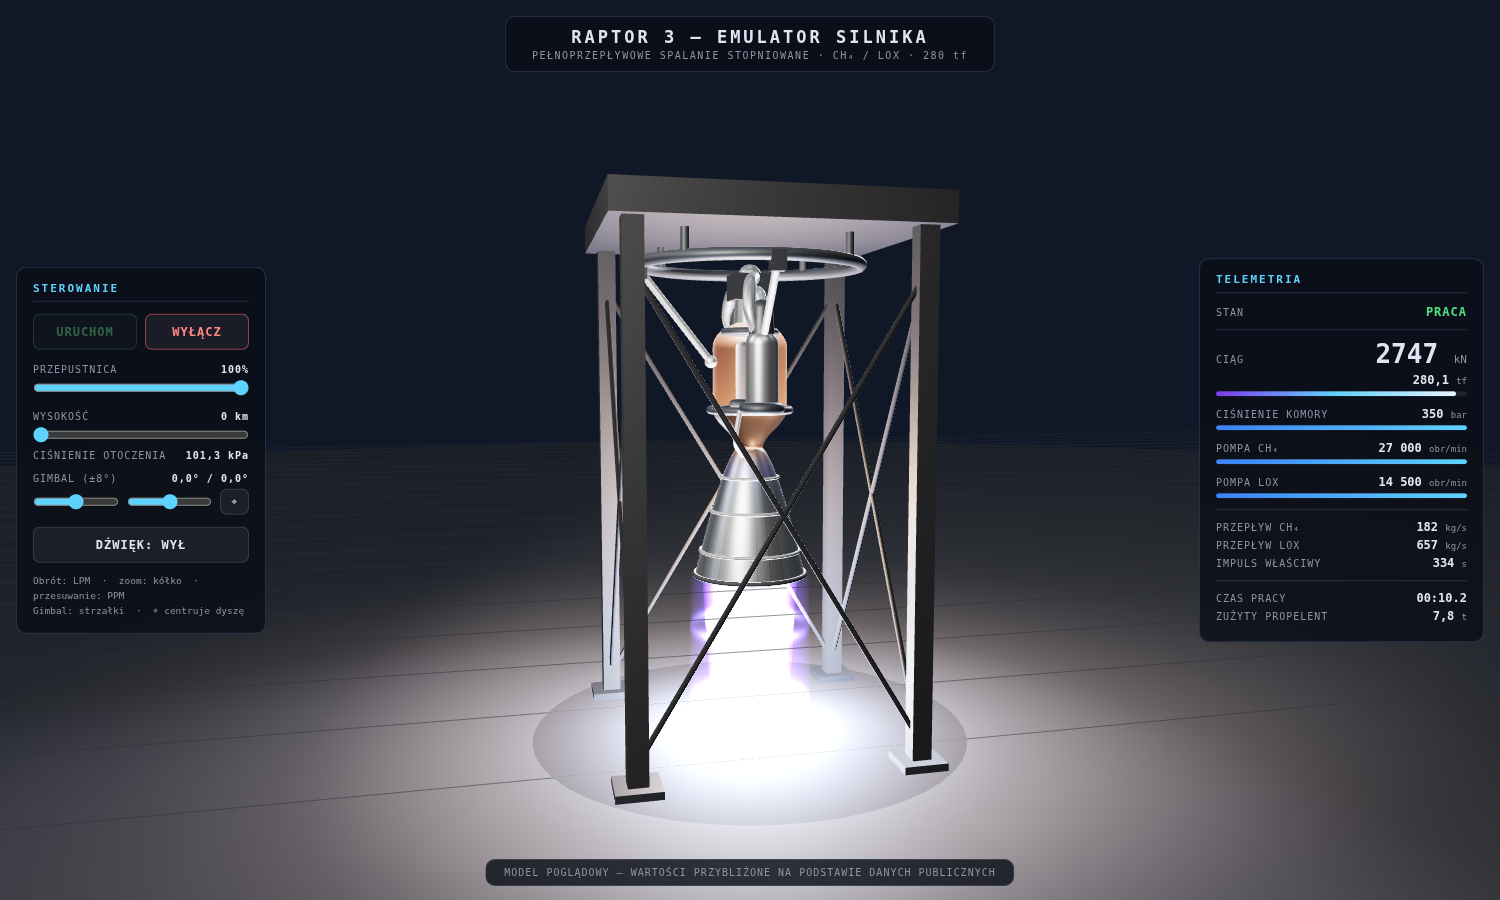
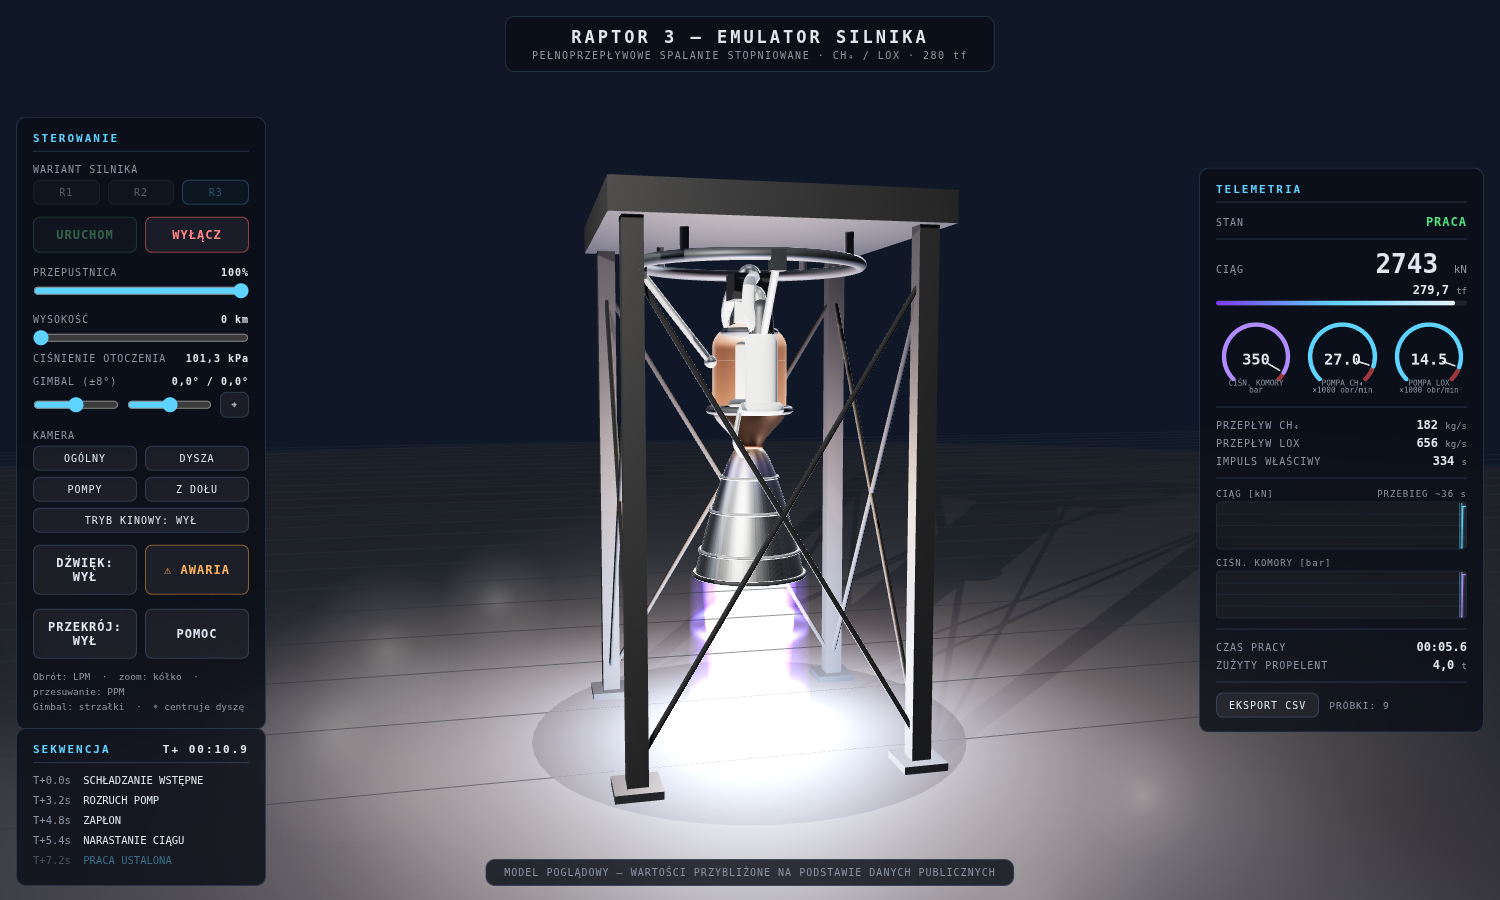
Iteracja 15: adaptacyjna rozdzielczosc, znaczniki zdarzen na wykresach, finalna dokumentacja
Adaptacyjny pixel ratio przy niskim fps, pionowe znaczniki sekwencji na
wykresach, przepisane README z nowymi zrzutami i podsumowanie petli
w DEVLOG.

Claude-Session: https://claude.ai/code/session_01Rf327BxMabs4otKyN1Dd75

diff --git a/raptor3-emulator/js/charts.js b/raptor3-emulator/js/charts.js
@@ -10,11 +10,19 @@ export class StripChart {
     this.n = 240;                       // liczba próbek w oknie
     this.data = new Float32Array(this.n).fill(NaN);
     this.head = 0;
+    this.abs = 0;                       // licznik wszystkich próbek
+    this.markers = [];                  // znaczniki zdarzeń sekwencji
   }
 
   push(v) {
     this.data[this.head] = v;
     this.head = (this.head + 1) % this.n;
+    this.abs += 1;
+  }
+
+  mark(color) {
+    this.markers.push({ abs: this.abs, color });
+    if (this.markers.length > 40) this.markers.shift();
   }
 
   draw() {
@@ -28,6 +36,16 @@ export class StripChart {
     for (let i = 1; i <= 3; i++) {
       const y = (H * i) / 4;
       ctx.beginPath(); ctx.moveTo(0, y); ctx.lineTo(W, y); ctx.stroke();
+    }
+
+    // znaczniki zdarzeń (zapłon, awarie, wyłączenie)
+    for (const m of this.markers) {
+      const age = this.abs - m.abs;
+      if (age >= this.n) continue;
+      const x = W - (age / (this.n - 1)) * W;
+      ctx.strokeStyle = m.color;
+      ctx.lineWidth = 1.5;
+      ctx.beginPath(); ctx.moveTo(x, 0); ctx.lineTo(x, H); ctx.stroke();
     }
 
     // przebieg
@@ -125,9 +143,28 @@ export class TelemetryCharts {
     this.pc = init('chartPc', { max: 370, color: '#b18cff', unit: 'bar' });
     this.timer = 0;
     this.interval = 0.15;   // s między próbkami (~36 s okna)
+    this.seqLen = 0;
+  }
+
+  markerColor(label) {
+    if (label.startsWith('AWARIA') || label.startsWith('FDS')) return 'rgba(255,80,80,0.75)';
+    if (label === 'ZAPŁON') return 'rgba(255,150,60,0.75)';
+    if (label.startsWith('KOMENDA WYŁ')) return 'rgba(255,150,60,0.6)';
+    return 'rgba(95,211,255,0.55)';
   }
 
   update(dt, sim) {
+    // nowe zdarzenia sekwencji -> pionowe znaczniki na obu wykresach
+    if (sim.seq.length < this.seqLen) this.seqLen = 0; // nowy test — log wyzerowany
+    if (sim.seq.length !== this.seqLen) {
+      for (let i = this.seqLen; i < sim.seq.length; i++) {
+        const c = this.markerColor(sim.seq[i].label);
+        this.thrust.mark(c);
+        this.pc.mark(c);
+      }
+      this.seqLen = sim.seq.length;
+    }
+
     this.timer += dt;
     if (this.timer < this.interval) return;
     this.timer = 0;

diff --git a/raptor3-emulator/js/main.js b/raptor3-emulator/js/main.js
@@ -19,7 +19,9 @@ const PIVOT_WORLD_Y = 5.45; // wysokość przegubu gimbala nad płytą
 
 const canvas = document.getElementById('scene');
 const renderer = new THREE.WebGLRenderer({ canvas, antialias: true });
-renderer.setPixelRatio(Math.min(window.devicePixelRatio, 2));
+const PR_MAX = Math.min(window.devicePixelRatio, 2);
+let pixelRatio = PR_MAX;
+renderer.setPixelRatio(pixelRatio);
 renderer.setSize(window.innerWidth, window.innerHeight);
 renderer.toneMapping = THREE.ACESFilmicToneMapping;
 renderer.toneMappingExposure = 1.12;
@@ -352,9 +354,24 @@ function emitSmoke(dt, t) {
   }
 }
 
+// adaptacyjna rozdzielczość: przy niskim fps schodzi do 1.0, wraca gdy jest zapas
+let perfAcc = 0, perfN = 0;
+function adaptResolution(dtRaw) {
+  perfAcc += dtRaw; perfN += 1;
+  if (perfAcc < 2) return;
+  const avg = perfAcc / perfN;
+  perfAcc = 0; perfN = 0;
+  if (avg > 0.045 && pixelRatio > 1.0) pixelRatio = Math.max(1.0, pixelRatio - 0.25);
+  else if (avg < 0.022 && pixelRatio < PR_MAX) pixelRatio = Math.min(PR_MAX, pixelRatio + 0.25);
+  else return;
+  renderer.setPixelRatio(pixelRatio);
+}
+
 function animate() {
   requestAnimationFrame(animate);
-  const dt = Math.min(clock.getDelta(), 0.05);
+  const dtRaw = clock.getDelta();
+  adaptResolution(dtRaw);
+  const dt = Math.min(dtRaw, 0.05);
   const t = clock.elapsedTime;
 
   // klawiatura -> cel gimbala

diff --git a/raptor3-emulator/README.md b/raptor3-emulator/README.md
@@ -1,16 +1,18 @@
-# Raptor 3 — Emulator silnika (Three.js)
+# Raptor — Emulator silnika (Three.js)
 
-Interaktywny emulator 3D silnika rakietowego **SpaceX Raptor 3** — pełnoprzepływowe
-spalanie stopniowane, metan/ciekły tlen (CH₄/LOX). Silnik wisi na wirtualnym
-stanowisku testowym: można go uruchomić, sterować przepustnicą i gimbalem,
-zmieniać wysokość (ciśnienie otoczenia) i obserwować telemetrię na żywo.
+Interaktywny emulator 3D silnika rakietowego **SpaceX Raptor** (warianty 1/2/3) —
+pełnoprzepływowe spalanie stopniowane, metan/ciekły tlen (CH₄/LOX). Silnik wisi
+na wirtualnym stanowisku testowym: przechodzi pełną sekwencję startową ze
+schładzaniem kriogenicznym, reaguje na przepustnicę i gimbal, psuje się na
+życzenie (i jest ratowany przez FDS), a każdy test można wyeksportować do CSV.
 
 ![Praca na poziomie morza](docs/screenshot-sl.png)
+![Struga z bliska](docs/screenshot-below.png)
 ![Praca w próżni](docs/screenshot-vac.png)
 
 ## Uruchomienie
 
-Aplikacja jest w pełni statyczna i działa offline (Three.js jest dołączony
+Aplikacja jest w pełni statyczna i działa offline (Three.js r180 jest dołączony
 w `vendor/`). Moduły ES wymagają serwera HTTP — wystarczy dowolny:
 
 ```bash
@@ -21,36 +23,51 @@ python3 -m http.server 8000
 
 albo `npx serve`, albo rozszerzenie Live Server w VS Code.
 
+## Funkcje
+
+| Obszar | Co robi |
+|---|---|
+| **Sekwencja startowa** | schładzanie kriogeniczne → rozruch pomp → zapłon → narastanie → praca → wyłączanie; panel SEKWENCJA stempluje każdą fazę zegarem misji T+ |
+| **Warianty silnika** | Raptor 1 (185 tf, 250 bar, gęste orurowanie) / Raptor 2 (230 tf) / Raptor 3 (280 tf, czysty) — przełączane w stanie GOTOWY |
+| **Przepustnica** | 40–100% z ogranicznikiem tempa zmian (28 %/s w górę, 45 %/s w dół); etykieta pokazuje `zadana → rzeczywista` |
+| **Wysokość** | 0–100 km: ciśnienie otoczenia, ciąg, niebo z gwiazdami i kształt strugi (diamenty Macha przy ziemi, szeroka ekspansja w próżni) |
+| **Gimbal** | ±8° suwakami lub strzałkami; siłowniki podążają za dyszą |
+| **Awarie + FDS** | ⚠ AWARIA wstrzykuje niestabilne spalanie / nadobroty pompy / nieudany zapłon; nadzór FDS sam tnie zawory, alarm miga i piszczy |
+| **Widok przekroju** | płaszczyzna tnąca odsłania komorę, gardziel, poświatę i płytę wtryskiwacza |
+| **Kamery** | presety OGÓLNY / DYSZA / POMPY / Z DOŁU z płynnym przelotem + TRYB KINOWY (auto-orbita) |
+| **Telemetria** | tarcze zegarowe (p. komory, obroty pomp, redline), przewijane wykresy ciągu i Pc ze znacznikami zdarzeń, przepływy, Isp, czas, propelent |
+| **Rejestrator** | próbkowanie 10 Hz przez cały test, EKSPORT CSV (`raptor3_test_NNN.csv`) |
+| **Efekty** | opary kriogeniczne i szron na pompach, para na płycie, dym po wyłączeniu, błysk zapłonu, cienie, drgania kamery, syntezowany huk (WebAudio) |
+| **POMOC** | opis FFSC po polsku, instrukcja, tabela wariantów, trwałe statystyki stanowiska (localStorage) |
+
+Pełna historia rozwoju (15 iteracji: pomysły → wybór → implementacja → test)
+jest w [docs/DEVLOG.md](docs/DEVLOG.md).
+
 ## Sterowanie
 
 | Element | Działanie |
 |---|---|
-| **URUCHOM / WYŁĄCZ** | sekwencja startowa (rozruch pomp → zapłon → narastanie ciągu) i wyłączenie |
-| **PRZEPUSTNICA** | 40–100% ciągu |
-| **WYSOKOŚĆ** | 0–100 km — zmienia ciśnienie otoczenia, wygląd strugi i ciąg |
-| **GIMBAL** | wychylenie dyszy ±8° (suwaki lub strzałki na klawiaturze, ⌖ centruje) |
-| **DŹWIĘK** | syntezowany huk silnika (WebAudio, bez plików audio) |
+| **URUCHOM / WYŁĄCZ** | start i bezpieczne wyłączenie sekwencji |
+| **R1 / R2 / R3** | wybór wariantu silnika (tylko w stanie GOTOWY) |
+| suwaki | przepustnica, wysokość, gimbal X/Y (⌖ centruje) |
+| strzałki | gimbal z klawiatury |
+| **⚠ AWARIA** | usterka testowa (w stanie GOTOWY uzbraja nieudany zapłon) |
+| **PRZEKRÓJ / POMOC / TRYB KINOWY / DŹWIĘK** | przełączniki |
 | mysz | obrót (LPM), zoom (kółko), przesuwanie (PPM) |
+| **EKSPORT CSV** | pobiera telemetrię ostatniego testu |
 
-## Co symuluje model
+## Model fizyczny (skrót)
 
-- **Sekwencję startową** jako maszynę stanów: rozruch turbopomp (spin prime),
-  zapłon, narastanie ciągu, praca, wyłączanie — z bezwładnością pomp
-  (inercja pierwszego rzędu, LOX wolniejszy od CH₄).
-- **Ciąg zależny od otoczenia**: `F = F_vac − A_e · p_amb`, więc na poziomie
-  morza wychodzi ~2745 kN (280 tf), a w próżni ~2880 kN.
-- **Przepływy propelentów** z impulsu właściwego i stosunku mieszanki O/F = 3,6
-  (~657 kg/s LOX + ~182 kg/s CH₄ przy pełnej mocy).
-- **Strugę spalin**: shader addytywny z diamentami Macha przy wysokim ciśnieniu
-  otoczenia i szeroką ekspansją w próżni; poświata wnętrza dyszy, błysk zapłonu,
-  drgania kamery i oświetlenie dynamiczne skalują się z mocą.
-- **Telemetrię**: ciąg, ciśnienie komory (do ~350 bar), obroty pomp, przepływy,
-  Isp, czas pracy i zużyty propelent.
+- Maszyna stanów z bezwładnością turbopomp (inercja 1. rzędu, LOX wolniejszy),
+  szybszym odcięciem w trybie ABORT i ogranicznikiem przepustnicy.
+- Ciąg `F = F_vac − A_e · p_amb`, przepływy z Isp i stosunku mieszanki
+  O/F = 3,6 (Raptor 3 przy pełnej mocy: ~657 kg/s LOX + ~182 kg/s CH₄,
+  ~2745 kN na poziomie morza, ~2880 kN w próżni, komora ~350 bar).
+- Nadzór FDS: limity oscylacji spalania, obrotów pomp i czasu zapłonu.
 
-Przyjęte parametry (ciąg 280 tf, Isp ~350 s, p. komory ~350 bar, masa 1525 kg,
-minimalna przepustnica ~40%) pochodzą z publicznie dostępnych materiałów SpaceX;
-reszta (obroty pomp, stałe czasowe, geometria) jest oszacowana. To model
-poglądowy do zabawy i nauki, nie narzędzie inżynierskie.
+Przyjęte parametry pochodzą z publicznie dostępnych materiałów SpaceX; reszta
+(obroty pomp, stałe czasowe, geometria) jest oszacowana. Model poglądowy do
+zabawy i nauki, nie narzędzie inżynierskie.
 
 ## Struktura
 
@@ -59,12 +76,17 @@ raptor3-emulator/
 ├── index.html          # UI + import map
 ├── css/style.css
 ├── js/
-│   ├── main.js         # scena, pętla renderowania, sterowanie
-│   ├── engineModel.js  # proceduralna geometria silnika i stanowiska
-│   ├── simulation.js   # model fizyczny i maszyna stanów
-│   ├── plume.js        # shader strugi spalin
-│   ├── hud.js          # panel telemetrii
-│   └── sound.js        # syntezowany dźwięk (WebAudio)
+│   ├── main.js         # scena, pętla, kamery, cząstki, spinanie modułów
+│   ├── engineModel.js  # proceduralna geometria silnika, stanowiska, wariantów
+│   ├── simulation.js   # model fizyczny, maszyna stanów, awarie, warianty
+│   ├── plume.js        # shader strugi spalin (diamenty Macha, ekspansja)
+│   ├── particles.js    # cząstki GPU: opary, para, dym
+│   ├── charts.js       # wykresy przewijane + tarcze zegarowe
+│   ├── hud.js          # panel telemetrii i sekwencji
+│   ├── recorder.js     # rejestrator telemetrii + eksport CSV
+│   ├── stats.js        # trwałe statystyki stanowiska (localStorage)
+│   └── sound.js        # syntezowany dźwięk + alarm (WebAudio)
+├── docs/               # DEVLOG (dziennik iteracji) i zrzuty ekranu
 └── vendor/             # three.js r180 + OrbitControls + RoomEnvironment
 ```
 

diff --git a/raptor3-emulator/docs/DEVLOG.md b/raptor3-emulator/docs/DEVLOG.md
@@ -505,3 +505,55 @@ kolejnych testów.
 
 **Test:** po dwóch testach statystyki `{tests:2, 15 s, 8,8 t}` przeżywają
 przeładowanie strony; modal otwiera się i zamyka; brak błędów.
+
+---
+
+## Iteracja 15 — Szlif końcowy: wydajność, znaczniki, dokumentacja
+
+**Pomysły:**
+1. Adaptacyjna rozdzielczość renderowania ✔ WYBRANY
+2. Znaczniki zdarzeń sekwencji na wykresach ✔ WYBRANY (drobny, domyka wykresy)
+3. Odświeżenie README i zrzutów po 15 iteracjach ✔ WYBRANY (obowiązek pętli)
+4. Suwak płaszczyzny przekroju
+5. Etykiety części 3D
+6. Hard mode — losowe awarie
+7. Zapis własnego ujęcia kamery
+8. Kapiące skropliny przy szronie
+9. Wskaźnik temperatur kriogenicznych
+10. Replay testu z CSV
+11. Porównanie dwóch przebiegów na wykresie
+12. Kolumna zadanej przepustnicy w CSV
+13. Tabela wariantów generowana z kodu (zamiast statycznej)
+14. Migotanie cieni od światła pióropusza
+15. Samouczek przy pierwszej wizycie / reset statystyk
+
+**Wybrano:** #1 + #2 + #3 — iteracja zamykająca: zabezpieczenie płynności na
+słabszych GPU, ostatni brakujący element wykresów i dokumentacja zgodna ze
+stanem faktycznym. Pozostałe pomysły zostają w backlogu na przyszłość.
+
+**Zrobione:**
+- `main.js`: adaptacyjny pixel ratio — średnia czasu klatki z okien 2 s;
+  powyżej 45 ms zejście o 0,25 (min 1,0), poniżej 22 ms powrót (max 2,0).
+- `charts.js`: pionowe znaczniki zdarzeń sekwencji na obu wykresach
+  (cyjan — fazy nominalne, pomarańcz — zapłon/wyłączenie, czerwień — awarie
+  i FDS); pozycjonowane licznikiem próbek, przewijają się z przebiegiem;
+  log zerowany przy nowym teście.
+- `README.md`: pełna tabela funkcji po 15 iteracjach, nowe zrzuty
+  (SL z parą i cieniami, struga z dołu, próżnia, POMOC, szron), odnośnik
+  do tego dziennika.
+
+**Test:** pełny przebieg regresji (start → praca → wyłączenie → sekwencja
+kompletna) bez błędów konsoli; zrzuty finalne wykonane.
+
+---
+
+## Podsumowanie pętli
+
+15 iteracji, 15 commitów, backlog na start każdej iteracji ≥10 pomysłów.
+Od iteracji 1 (panel sekwencji) do 15 (szlif) emulator urósł o: konsolę
+sekwencji, wykresy ze znacznikami, prechill z oparami i szronem, parę i dym,
+awarie z FDS, przekrój, presety kamer z trybem kinowym, tarcze zegarowe,
+rejestrator CSV, warianty R1/R2/R3, slew rate przepustnicy, cienie, panel
+POMOC ze statystykami i adaptacyjną rozdzielczość. Niewykorzystane pomysły
+(replay z CSV, etykiety 3D, hard mode, suwak przekroju…) czekają w backlogu
+ostatniej iteracji.

diff --git a/README.md b/README.md
@@ -2,4 +2,4 @@ test
 
 ## Projekty
 
-- [`raptor3-emulator/`](raptor3-emulator/) — interaktywny emulator 3D silnika SpaceX Raptor 3 w Three.js (sekwencja startowa, przepustnica, gimbal, struga spalin z diamentami Macha, telemetria).
+- [`raptor3-emulator/`](raptor3-emulator/) — interaktywny emulator 3D silnika SpaceX Raptor (warianty 1/2/3) w Three.js: pełna sekwencja startowa ze schładzaniem, przepustnica ze slew rate, gimbal, awarie z systemem FDS, przekrój, struga z diamentami Macha, tarcze i wykresy telemetrii, eksport CSV. Historia rozwoju: [DEVLOG](raptor3-emulator/docs/DEVLOG.md).
